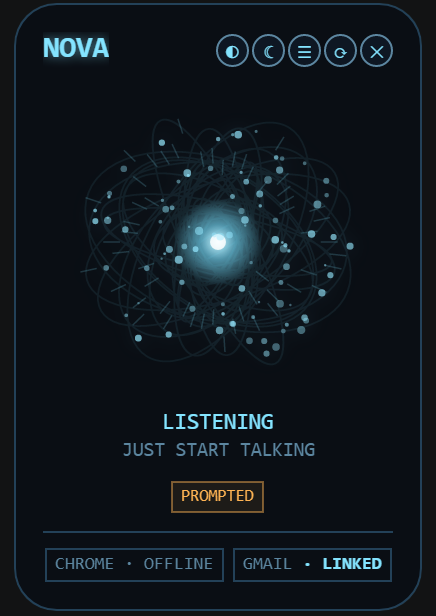
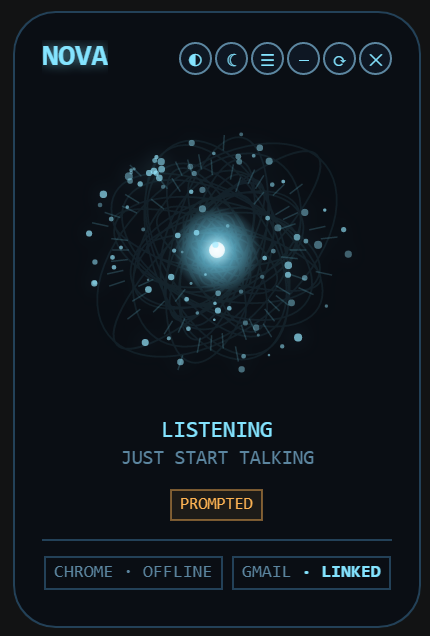
docs: document tools/strategy system, local LLM roadmap, and overlay sizes
- New "Tools and strategy" section: a plain-language rundown of the
  built-in tool catalog (files, shell/desktop, browser, memory, Google
  Workspace, self-building, diagnostics), plus an explanation of
  strategy - the project's own name for its case-based-reasoning (CBR)
  system that saves and reuses successful task approaches, distinct
  from the self-building "skills" mechanism it was originally
  (mistakenly) grouped with.
- "What's next" gains local LLM support as an alternative to the
  Claude API, framed honestly as mostly a cost question rather than a
  time one.
- "The Overlay" gains a second table showing all three sizes (pill/
  minimized/maximized) for each skin, not just the single minimized
  shot each one had before - refreshed screenshots for all three,
  reflecting this round of visual fixes.

diff --git a/README.md b/README.md
@@ -1,6 +1,6 @@
-# Nova
+# Nova - In Progress
 
-Nova is a voice-first desktop assistant for Windows, built on Claude. The idea started with E.V. from *Spider-Man: Brand New Day* — an AI that doesn't just answer when spoken to, but notices what you're doing and offers to help. I wanted to see how much of that was actually buildable with what's available today, not just as a chatbot with a microphone bolted on, but something that watches your screen, acts on real apps, and remembers you from one session to the next.
+Nova is a voice-first desktop assistant for Windows, built on Claude. The idea started with E.V. from *Spider-Man: Brand New Day* — an AI that doesn't just answer when spoken to, but notices what you're doing and offers to help. I wanted to see how much of that was actually buildable with what's available today, not just as a chatbot with a microphone bolted on, but something that watches your screen, acts on real apps, evolves over time and remembers you from one session to the next.
 
 You talk to it, it talks back — fully local speech-to-text and text-to-speech, so nothing you say leaves your machine unless a task actually needs the internet. It reads native apps and the browser through Windows UI Automation and Playwright rather than screenshots, so it's reading structured data, not guessing from pixels. It keeps a real memory across restarts (and gets smarter about *how* it remembers things, not just that it does). And it can write, compile, and run its own small tools at runtime when it hits something it doesn't have a tool for yet, with a self-repair loop if one of those tools starts misbehaving.
 
@@ -14,7 +14,21 @@ You talk to it, it talks back — fully local speech-to-text and text-to-speech,
 
 Full write-up of how all this fits together: [docs/ARCHITECTURE.md](docs/ARCHITECTURE.md). Things I tried and specifically didn't do, and why: [docs/DESIGN_DECISIONS.md](docs/DESIGN_DECISIONS.md).
 
-## The overlay
+## Tools and strategy
+
+Nova's built-in **tools** cover the ground you'd expect a screen/browser-aware assistant to cover:
+
+- **Files** — read, list, edit (with full undo history via `revert_file_edit`), delete
+- **Shell and desktop** — run terminal commands, launch/open paths, read the screen via UI Automation, click/type/scroll into native apps, watch a terminal window for build/test output worth mentioning
+- **Browser** — navigate, read the page, fill/select/check form fields, upload files, click (restricted to navigational actions only — see the permission model below)
+- **Memory** — save and search durable facts about you, search past conversations
+- **Google Workspace** (optional) — Gmail, Calendar, Docs, Drive, Sheets, Slides
+- **Self-building** — write, compile, and run her own new tools at runtime for a capability she doesn't already have (see "Self-repair" above)
+- **Diagnostics** — recent error log, runtime settings
+
+Beyond calling tools, Nova also learns *how* to approach a task, not just facts about you. This is **strategy** — the project's own name for a small case-based reasoning (CBR) system: at the start of a task, `StrategyRouter` checks whether a previously-saved approach applies, using an LLM judgment call rather than embedding similarity alone, since a genuinely general lesson ("pull broad instead of guessing narrow keywords") often shares no vocabulary with a new, differently-worded task it should still apply to. At the end, `StrategyReflection` judges whether the approach actually taken was efficient, and reinforces a strategy that's still pulling its weight, saves a new one when a strategy-free task went well, or reworks one after three underperforming uses in a row — a case-based memory of *approaches*, updated the same way it's retrieved: by outcome, not just by recall.
+
+## The Overlay
 
 Nova runs as a small floating overlay rather than a console window, with three interchangeable skins — same live state (listening, speaking, asleep, what she's currently doing), three completely different looks. Cycle between them anytime with the switcher button.
 
@@ -23,8 +37,18 @@ Nova runs as a small floating overlay rather than a console window, with three i
 | ![ARC skin](docs/arc.png) | ![WEB skin](docs/web.png) | ![AURA skin](docs/aura.png) |
 | Hologram-globe HUD, cyan theme | Retro pixel-art tracker | Soft pastel companion |
 
-## What's next
+Each skin also has three sizes, same state carried across all of them:
 
+| | ARC | WEB | AURA |
+|---|---|---|---|
+| **Pill** — collapsed, just enough to see she's listening | ![ARC pill](docs/arc-pill.png) | ![WEB pill](docs/web-pill.png) | ![AURA pill](docs/aura-pill.png) |
+| **Minimized** — current activity, comfort-level toggle | ![ARC minimized](docs/arc.png) | ![WEB minimized](docs/web.png) | ![AURA minimized](docs/aura.png) |
+| **Maximized** — full conversation transcript alongside a running activity log | ![ARC maximized](docs/arc-max.png) | ![WEB maximized](docs/web-max.png) | ![AURA maximized](docs/aura-max.png) |
+
+A single click collapses straight back down to the pill from either size.
+
+## What's next
+- Local LLM support, as an alternative to the Claude API — mostly a cost question rather than a time one; the reasoning core needs a model genuinely capable of long agentic tool-use loops, and the local options at that bar are still heavier/pricier (hardware-wise) than paying per-call
 - Full UI customization — position, theming, layout, beyond just the three built-in skins
 - Figma and Blender integrations, built the same way as any other self-contained tool, driving each app's own scripting API rather than generating content from scratch
 - Proactive inbox push-watching instead of polling
